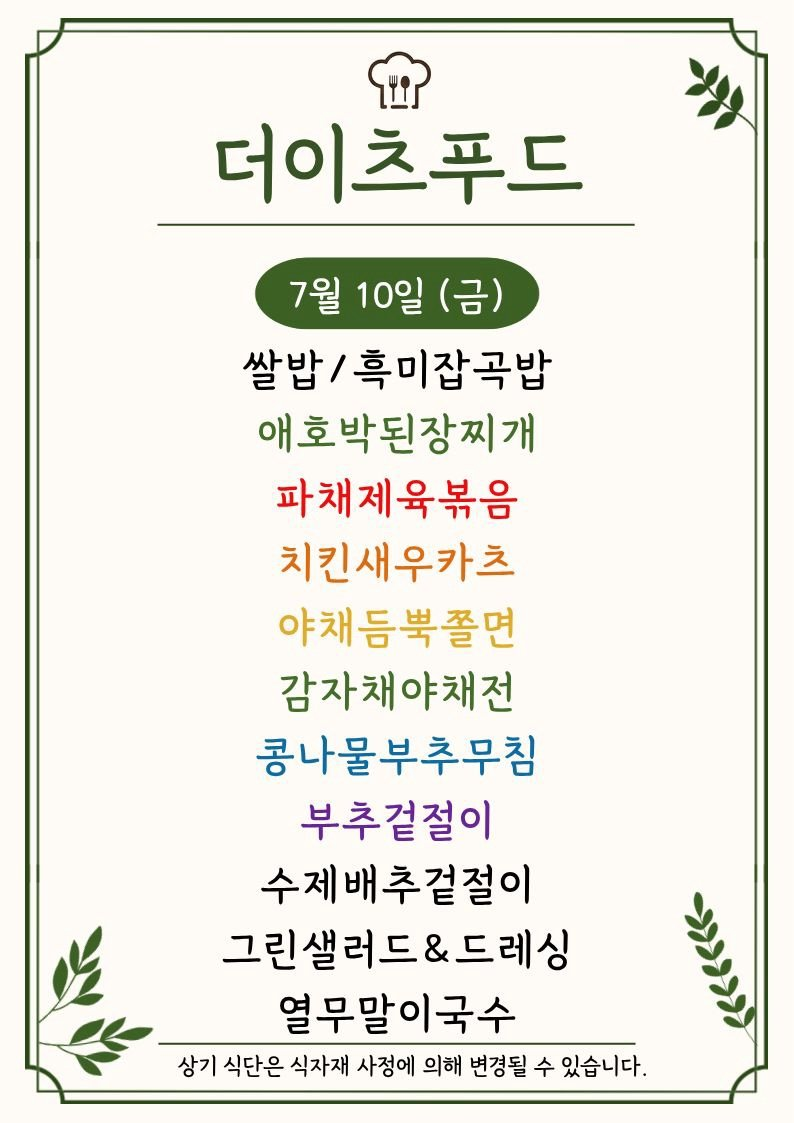
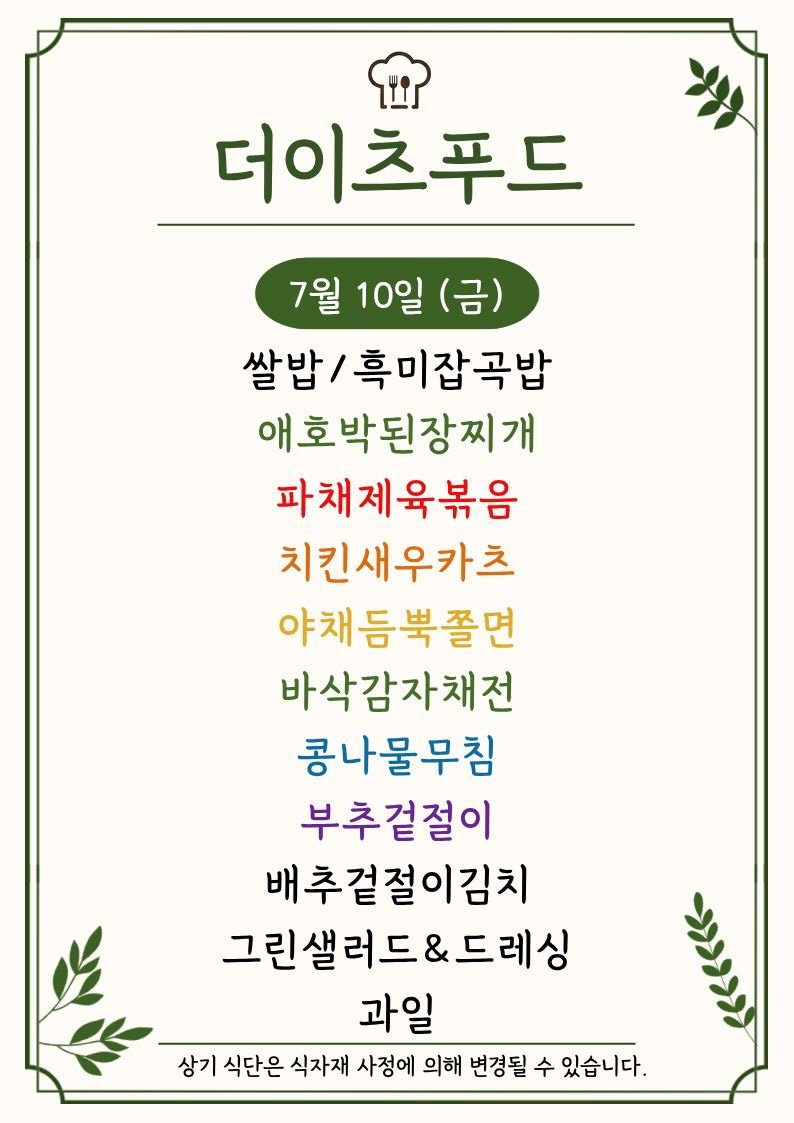
Update menu board assets

Changed region(s): [[0.3325, 0.5922, 0.6952, 0.7168], [0.3325, 0.8727, 0.6348, 0.935], [0.3325, 0.748, 0.665, 0.8103]]

diff --git a/menu-today/index.html b/menu-today/index.html
@@ -209,7 +209,7 @@
 
     <section class="meta-bar">
       <div class="meta-card"><div class="meta-label">기준 날짜</div><div class="meta-value">2026년 7월 10일 금요일</div></div>
-      <div class="meta-card"><div class="meta-label">최종 가져온 시간</div><div class="meta-value">2026-07-10 10:33:22</div></div>
+      <div class="meta-card"><div class="meta-label">최종 가져온 시간</div><div class="meta-value">2026-07-10 10:48:06</div></div>
       <div class="meta-card"><div class="meta-label">확인 완료</div><div class="meta-value">9개 식당</div></div>
       <div class="meta-card"><div class="meta-label">준비중</div><div class="meta-value">3개 채널</div></div>
     </section>
@@ -295,7 +295,7 @@
             <div class="sub">에이스테크노타워10차</div>
           </div>
         </div>
-        <div class="menu-inline-image"><img src="./images/thefoodsketch.png" alt="더푸드스케치 식단 이미지"></div><ul><li>햄계란볶음밥</li><li>시원환묵사발</li><li>길비치킨구이</li><li>청파래오징어까스</li><li>길릭치즈토스트</li><li>크림함박스테이크</li><li>기 차돌떡볶이</li><li>~ 근대나물</li><li>가든샐러드 &amp; 드레싱</li><li>배추겉절이 / 음료</li></ul>
+        <div class="menu-inline-image"><img src="./images/thefoodsketch.png" alt="더푸드스케치 식단 이미지"></div><ul><li>햄계란볶음밥</li><li>시원환묵사발</li><li>길비치킨구이</li><li>청파래오징어까스</li><li>길릭치즈토스트</li><li>크림함박스테이크</li><li>기 차돌떡볶이</li><li>~ 근대나물</li><li>가든샐러드 / 드레싱</li><li>배추겉절이 / 음료</li></ul>
       </article>
 
       <article class="restaurant-card">

diff --git a/guro-menu/index.html b/guro-menu/index.html
@@ -32,7 +32,7 @@
   </header>
   <section class="meta">
     <div><small>기준 날짜</small><strong>2026년 7월 10일 금요일</strong></div>
-    <div><small>최종 갱신</small><strong>2026-07-10 10:33:35</strong></div>
+    <div><small>최종 갱신</small><strong>2026-07-10 10:48:20</strong></div>
     <div><small>등록 식당</small><strong>5개</strong></div>
   </section>
   <div class="notice">공개 카카오 채널의 메뉴 이미지를 자동 수집하고 OCR로 정리합니다. 텍스트에 오타가 있을 수 있으니 식단 이미지를 함께 확인해 주세요.</div>
@@ -75,8 +75,8 @@
           <a class="channel" href="https://pf.kakao.com/_xeVwxnn" target="_blank" rel="noopener">원본 채널</a>
         </div>
         <img class="menu-image" src="./images/the-eats-food.png" alt="더이츠푸드 식단 이미지" loading="lazy">
-        
-        <ul><li>쌀밥/흑미잡곡밥</li><li>애호박된장찌개</li><li>파채제육볶음</li><li>치킨새우카츠</li><li>감자채야채전</li><li>콩나물부추무침</li><li>부추겉절이</li><li>수제배추겉절이</li><li>그린샐러드&amp;드레싱 봅</li></ul>
+        <p class="message">최신 공개 식단 이미지의 텍스트입니다. 날짜는 원본 이미지를 확인해 주세요.</p>
+        <ul><li>이 3 st</li><li>쌀밥/흑미잡곡밥</li><li>애호박된장찌개</li><li>파채제육볶음</li><li>치킨새우카츠</li><li>바삭감자채전</li><li>콩나물무침</li><li>부추겉절이</li><li>배추겉절이김치 !</li><li>그린샐러드&amp;드레싱 Y%</li><li>과일 ¥</li></ul>
       </article>
 
       <article class="restaurant-card">
